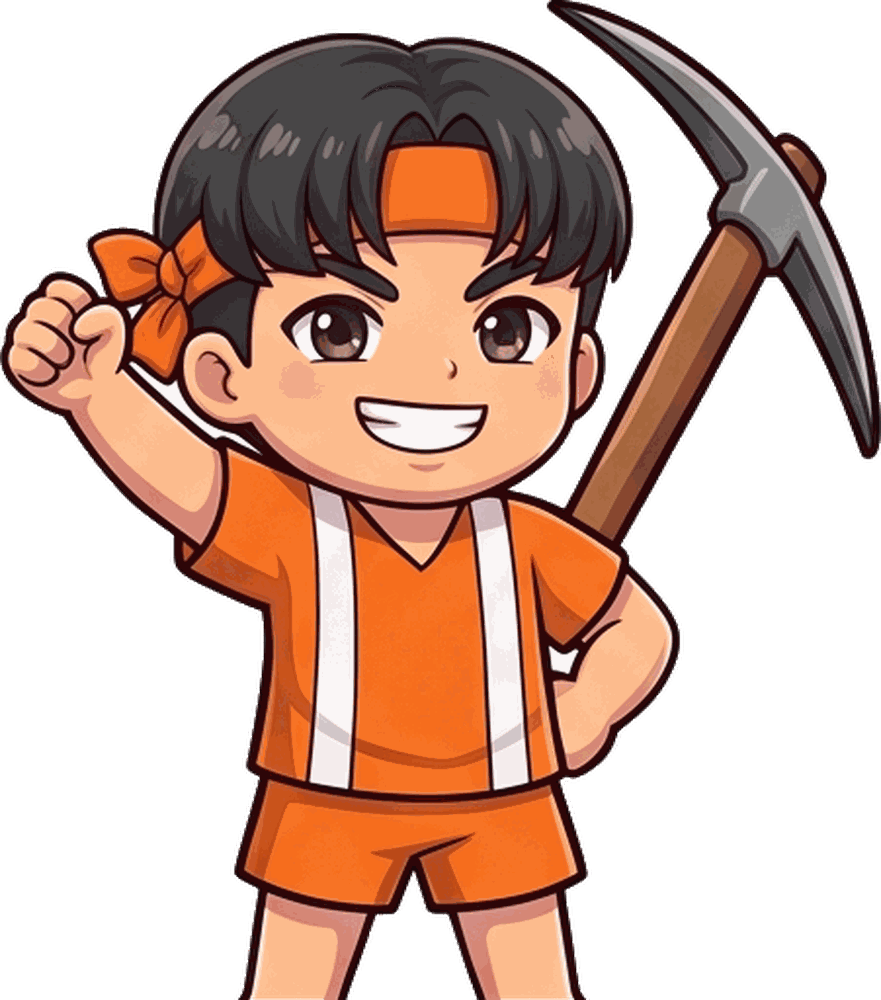
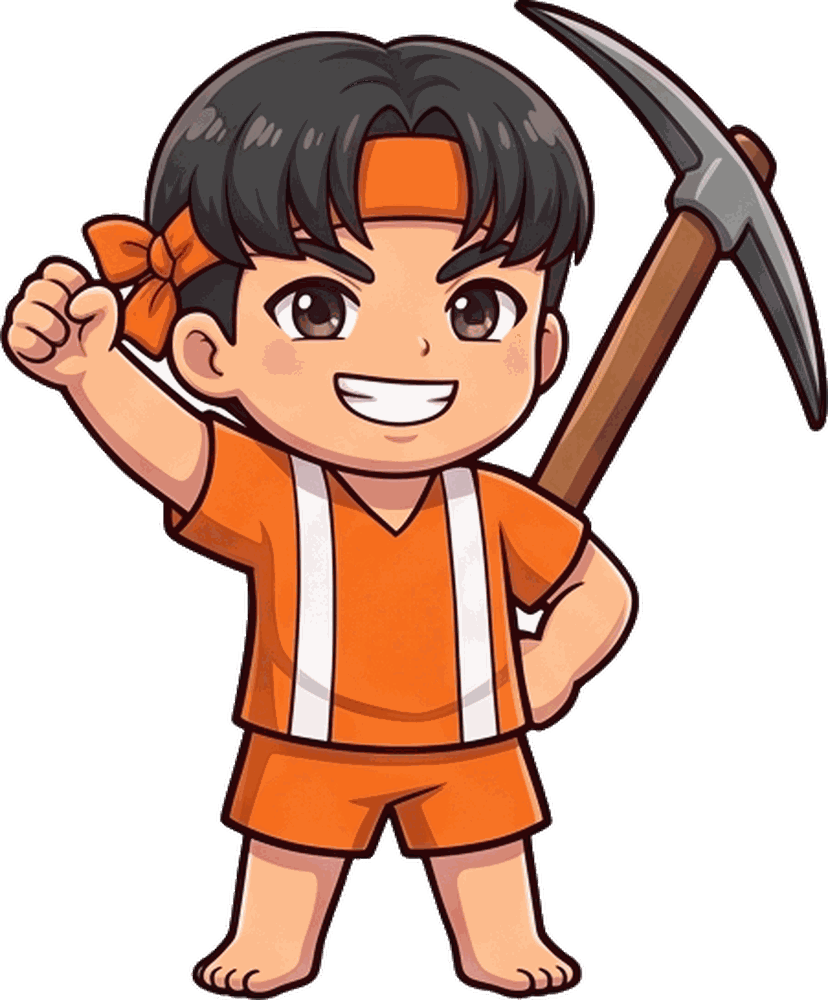
オリハルコンレース: 素材の切り抜き枠を広げて8枚再生成（岩の右・歩き/振り上げの柄の先・キメの足元・鉱石の先端の欠け解消）＋打点/立ち位置を割れる前の岩の実体基準に（9/6 Naoto FB）

diff --git a/overlay.js b/overlay.js
@@ -2122,11 +2122,13 @@
   var ORI_BASE = { IN: 60, WALK: 2600, STEP: 350, RAISE: 380, SWING: 500, DOWNMS: 190,
                    CRACK: 90, GEMRISE: 520, KIME: 700, HOLD: 2600, FADE: 450 };
   /* 実寸比と体の重心x比＝素材加工/fx_ori_make.py の出力（絵を差し替えたら再実行して貼り直す） */
-  var ORI_AR_W = 0.7310, ORI_CX_W = 0.5382; // 歩行（w1/w2共通枠・体の重心x比）
-  var ORI_AR_S = 1.0280, ORI_CX_S = 0.4744; // 振り（up/dn共通枠）
-  var ORI_AR_K = 0.8810, ORI_CX_K = 0.4432; // キメ
-  var ORI_AR_R = 0.9570;                    // 岩（rock1/rock2共通枠）
-  var ORI_AR_G = 1.0200;                    // 鉱石
+  // 9/6 Naoto FB「岩の右・歩きの柄の先・振り上げの柄の先・キメの足元が切れている」＝素材の切り抜き枠が
+  //   絵より狭かった（CSS/配置の問題ではない）→ 枠を広げて8枚とも再生成・定数を貼り直し
+  var ORI_AR_W = 0.7350, ORI_CX_W = 0.5263; // 歩行（w1/w2共通枠・体の重心x比）
+  var ORI_AR_S = 1.0280, ORI_CX_S = 0.4753; // 振り（up/dn共通枠）
+  var ORI_AR_K = 0.8280, ORI_CX_K = 0.4440; // キメ（9/6＝足元まで入って枠が縦に6%伸びた）
+  var ORI_AR_R = 1.1970, ORI_R1_L = 0.0723, ORI_R1_W = 0.8594; // 岩（rock1/rock2共通枠・割れる前の岩の左端比と幅比）
+  var ORI_AR_G = 0.9810;                    // 鉱石（9/6＝結晶の先端まで入った）
   function oriTimes() {
     var t = { IN: ORI_BASE.IN };
     t.ARRIVE = t.IN + ORI_BASE.WALK;             // 歩き終わり＝振りかぶりへ
@@ -3017,14 +3019,19 @@
     var cw = cam.clientWidth || 400, ch = cam.clientHeight || 300;
     var wh = Math.round(ch * 0.56), ww = Math.round(wh * ORI_AR_W);
     var sh = Math.round(ch * 0.62), sw = Math.round(sh * ORI_AR_S);
-    var kh = Math.round(ch * 0.60), kw = Math.round(kh * ORI_AR_K);
+    // 9/6＝キメ枠は足元まで入って縦に6%伸びた（旧0.60）→体の見た目を振り枠と同じ高さに保つため0.64
+    var kh = Math.round(ch * 0.64), kw = Math.round(kh * ORI_AR_K);
     var rh = Math.round(ch * 0.32), rw = Math.round(rh * ORI_AR_R);
-    var gh = Math.round(ch * 0.38), gw = Math.round(gh * ORI_AR_G);
+    var gh = Math.round(ch * 0.395), gw = Math.round(gh * ORI_AR_G); // 9/6 結晶の先端まで入って4%伸びた分（旧0.38）
     var rockL = Math.round((cw - rw) / 2);        // 岩＝中央（9/2 Naoto FB・初版は右寄り）
+    /* 9/6＝共通枠の幅は「割れた後」（rock2＝左右に開く）で決まり、割れる前の岩は枠の内側
+       （左端比ORI_R1_L・幅比ORI_R1_W）に収まる。打点と体の立ち位置は**割れる前の岩の実体**で決める
+       （枠比のままだと枠が広がった分だけ左へズレる） */
+    var r1L = rockL + rw * ORI_R1_L, r1W = rw * ORI_R1_W;
     /* 体のアンカーx＝**振り下ろしのツルハシ先端が岩の左肩（左から30%）に当たる**逆算位置。
        振り枠の右端≒ツルハシ先端なので、先端までの距離＝sw×(1-体の重心x比)。
        体を岩の位置に置くと重なって埋まる（初版の実写で確認） */
-    var manX = Math.round(rockL + rw * 0.30 - sw * (1 - ORI_CX_S));
+    var manX = Math.round(r1L + r1W * 0.30 - sw * (1 - ORI_CX_S));
     var box = document.createElement("div");
     box.className = "fx-ori m-" + key;
     var v = { "--walk": (ORI_BASE.WALK / 1000) + "s", "--step": (ORI_BASE.STEP / 1000) + "s",
@@ -3077,7 +3084,7 @@
       if (!box.isConnected) return;
       var hitFx = document.createElement("i");
       hitFx.className = "fx-ori-hitfx" + (big ? " big" : "");
-      hitFx.style.left = (rockL + rw * 0.20) + "px";
+      hitFx.style.left = (r1L + r1W * 0.20) + "px";   // 9/6 割れる前の岩の実体基準（枠比→岩比）
       hitFx.style.bottom = Math.round(ch * 0.045 + rh * 0.78) + "px";
       box.appendChild(hitFx);
       var se = null;

diff --git a/overlay.html b/overlay.html
@@ -3,7 +3,7 @@
 <head>
 <meta charset="utf-8">
 <title>overlay</title>
-<link rel="stylesheet" href="overlay.css?v=20260904-225838">
+<link rel="stylesheet" href="overlay.css?v=20260906-193023">
 </head>
 <body class="scene-talk" data-theme="a">
 
@@ -12,7 +12,7 @@
 
   <!-- ==== 全シーン共通ヘッダー ==== -->
   <header class="gbar">
-    <div class="sp-logo"><img src="sponsor_black.png?v=20260904-225838" alt="競輪公式投票CTC"></div>
+    <div class="sp-logo"><img src="sponsor_black.png?v=20260906-193023" alt="競輪公式投票CTC"></div>
     <div class="venue-tabs" id="vtabs"></div>
     <div class="camp-box hidden" id="camp-box"><span class="camp-label">本日のキャンペーン応募人数</span><span class="camp-num" id="camp-num"></span></div>
     <div class="clock-box"><span class="clock-date" data-clock-date></span><span class="clock-time" data-clock-time></span></div>
@@ -172,7 +172,7 @@
   <!-- ================= ⑤広告シーン ================= -->
   <section class="scene" id="scene-ad">
     <div class="panel ad-panel">
-      <div class="ad-logo"><img src="sponsor.png?v=20260904-225838" alt="競輪公式投票CTC"></div>
+      <div class="ad-logo"><img src="sponsor.png?v=20260906-193023" alt="競輪公式投票CTC"></div>
       <div class="ad-title" id="ad-title"></div>
       <ul class="ad-list" id="ad-list"></ul>
       <div class="ad-progress" id="ad-progress">
@@ -193,11 +193,11 @@
 
 <div class="dbg" id="dbg"></div>
 
-<script src="autoupdate.js?v=20260904-225838" data-au="reload"></script>
-<script src="config.js?v=20260904-225838"></script>
-<script src="keirin.js?v=20260904-225838"></script>
-<script src="derive.js?v=20260904-225838"></script>
-<script src="sync.js?v=20260904-225838"></script>
-<script src="overlay.js?v=20260904-225838"></script>
+<script src="autoupdate.js?v=20260906-193023" data-au="reload"></script>
+<script src="config.js?v=20260906-193023"></script>
+<script src="keirin.js?v=20260906-193023"></script>
+<script src="derive.js?v=20260906-193023"></script>
+<script src="sync.js?v=20260906-193023"></script>
+<script src="overlay.js?v=20260906-193023"></script>
 </body>
 </html>

diff --git a/tenkai/index.html b/tenkai/index.html
@@ -4,7 +4,7 @@
 <meta charset="UTF-8">
 <meta name="viewport" content="width=device-width, initial-scale=1">
 <title>競輪 展開ボード</title>
-<link rel="stylesheet" href="css/style.css?v=20260904-225838">
+<link rel="stylesheet" href="css/style.css?v=20260906-193023">
 </head>
 <body>
 
@@ -91,15 +91,15 @@
 
 </div>
 
-<script src="../autoupdate.js?v=20260904-225838" data-au="output-only"></script>
-<script src="js/config.js?v=20260904-225838"></script>
-<script src="js/state.js?v=20260904-225838"></script>
-<script src="js/icons.js?v=20260904-225838"></script>
-<script src="js/bars.js?v=20260904-225838"></script>
-<script src="js/racecard.js?v=20260904-225838"></script>
-<script src="js/live.js?v=20260904-225838"></script>
-<script src="js/lineup.js?v=20260904-225838"></script>
-<script src="js/drag.js?v=20260904-225838"></script>
-<script src="js/main.js?v=20260904-225838"></script>
+<script src="../autoupdate.js?v=20260906-193023" data-au="output-only"></script>
+<script src="js/config.js?v=20260906-193023"></script>
+<script src="js/state.js?v=20260906-193023"></script>
+<script src="js/icons.js?v=20260906-193023"></script>
+<script src="js/bars.js?v=20260906-193023"></script>
+<script src="js/racecard.js?v=20260906-193023"></script>
+<script src="js/live.js?v=20260906-193023"></script>
+<script src="js/lineup.js?v=20260906-193023"></script>
+<script src="js/drag.js?v=20260906-193023"></script>
+<script src="js/main.js?v=20260906-193023"></script>
 </body>
 </html>

diff --git a/console.html b/console.html
@@ -4,7 +4,7 @@
 <meta charset="utf-8">
 <meta name="viewport" content="width=device-width, initial-scale=1">
 <title>配信コンソール</title>
-<link rel="stylesheet" href="console.css?v=20260904-225838">
+<link rel="stylesheet" href="console.css?v=20260906-193023">
 </head>
 <body>
 
@@ -227,11 +227,11 @@
 </div>
 </main>
 
-<script src="autoupdate.js?v=20260904-225838" data-au="banner"></script>
-<script src="config.js?v=20260904-225838"></script>
-<script src="keirin.js?v=20260904-225838"></script>
-<script src="derive.js?v=20260904-225838"></script>
-<script src="sync.js?v=20260904-225838"></script>
-<script src="console.js?v=20260904-225838"></script>
+<script src="autoupdate.js?v=20260906-193023" data-au="banner"></script>
+<script src="config.js?v=20260906-193023"></script>
+<script src="keirin.js?v=20260906-193023"></script>
+<script src="derive.js?v=20260906-193023"></script>
+<script src="sync.js?v=20260906-193023"></script>
+<script src="console.js?v=20260906-193023"></script>
 </body>
 </html>

diff --git a/autoupdate.js b/autoupdate.js
@@ -24,7 +24,7 @@
 
 (function () {
   "use strict";
-  var AU_BUILD = "20260904-225838";
+  var AU_BUILD = "20260906-193023";
 
   var params;
   try { params = new URLSearchParams(location.search); } catch (e) { return; }
